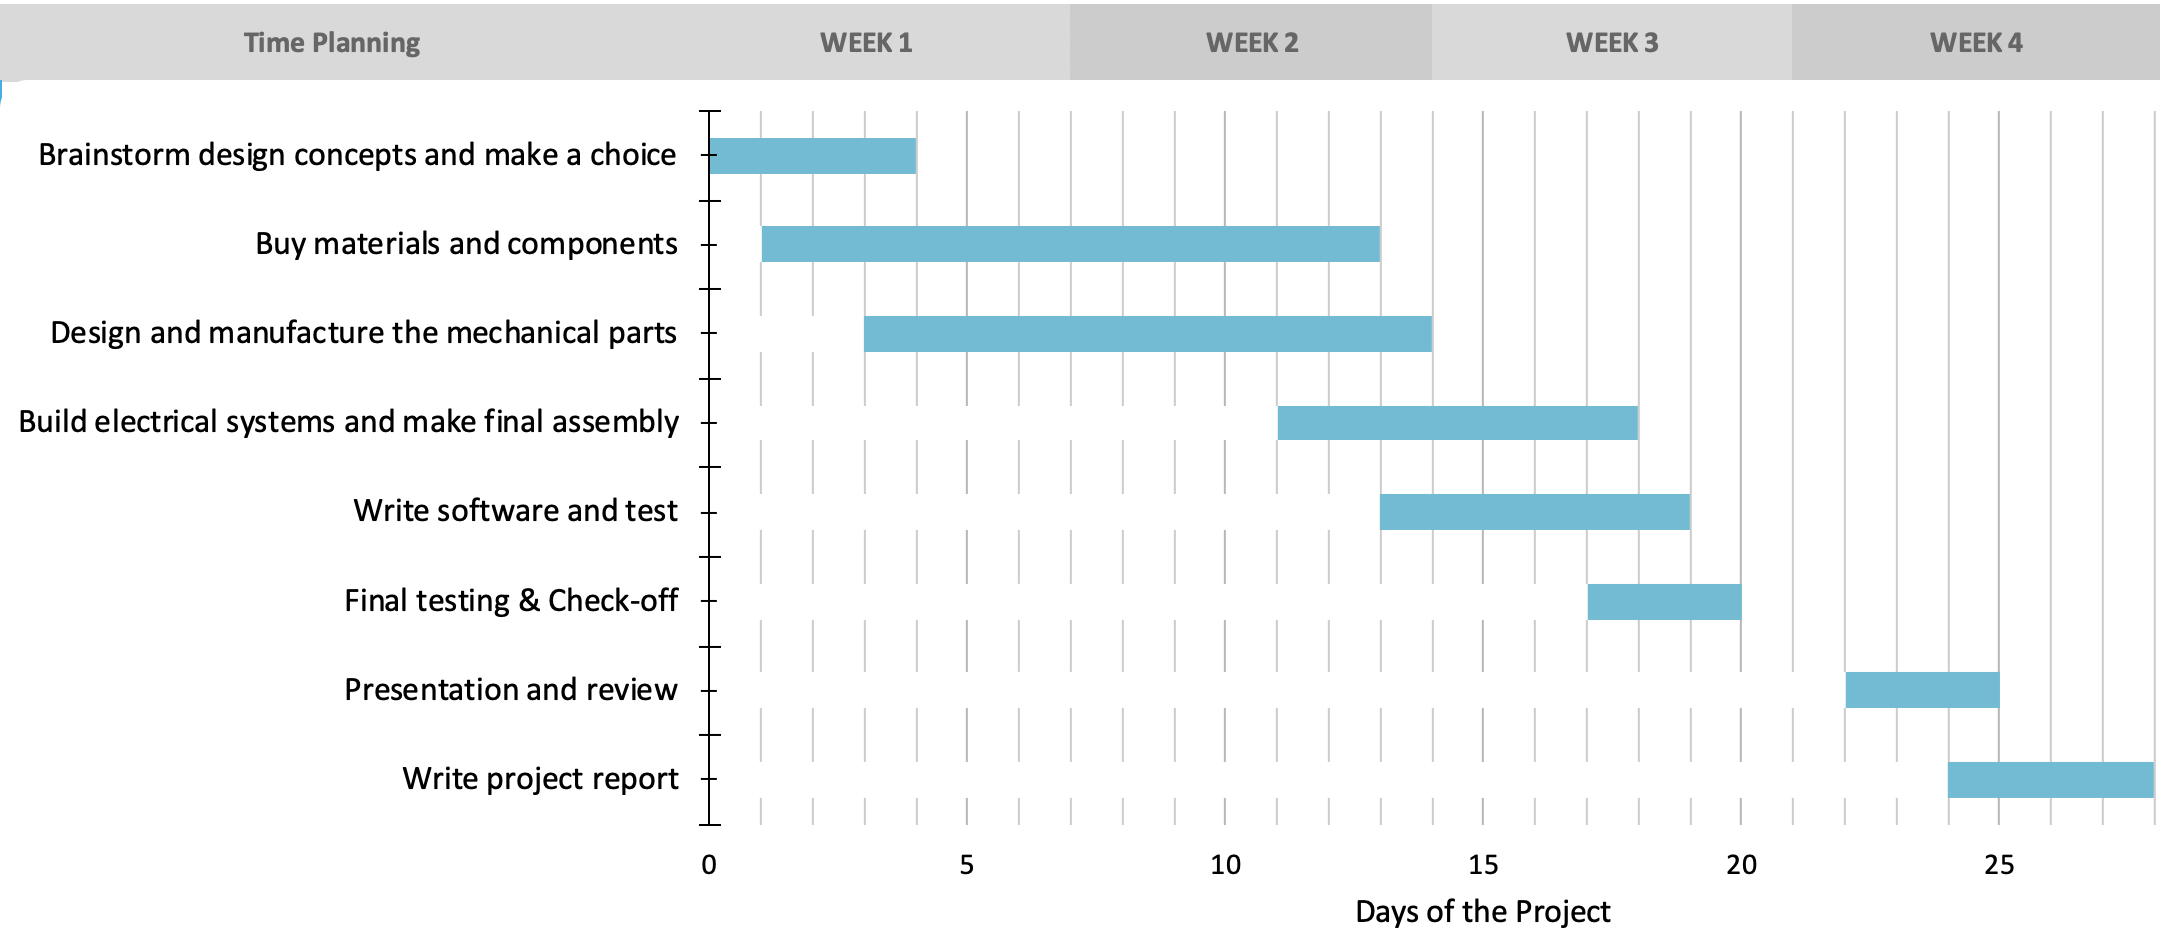
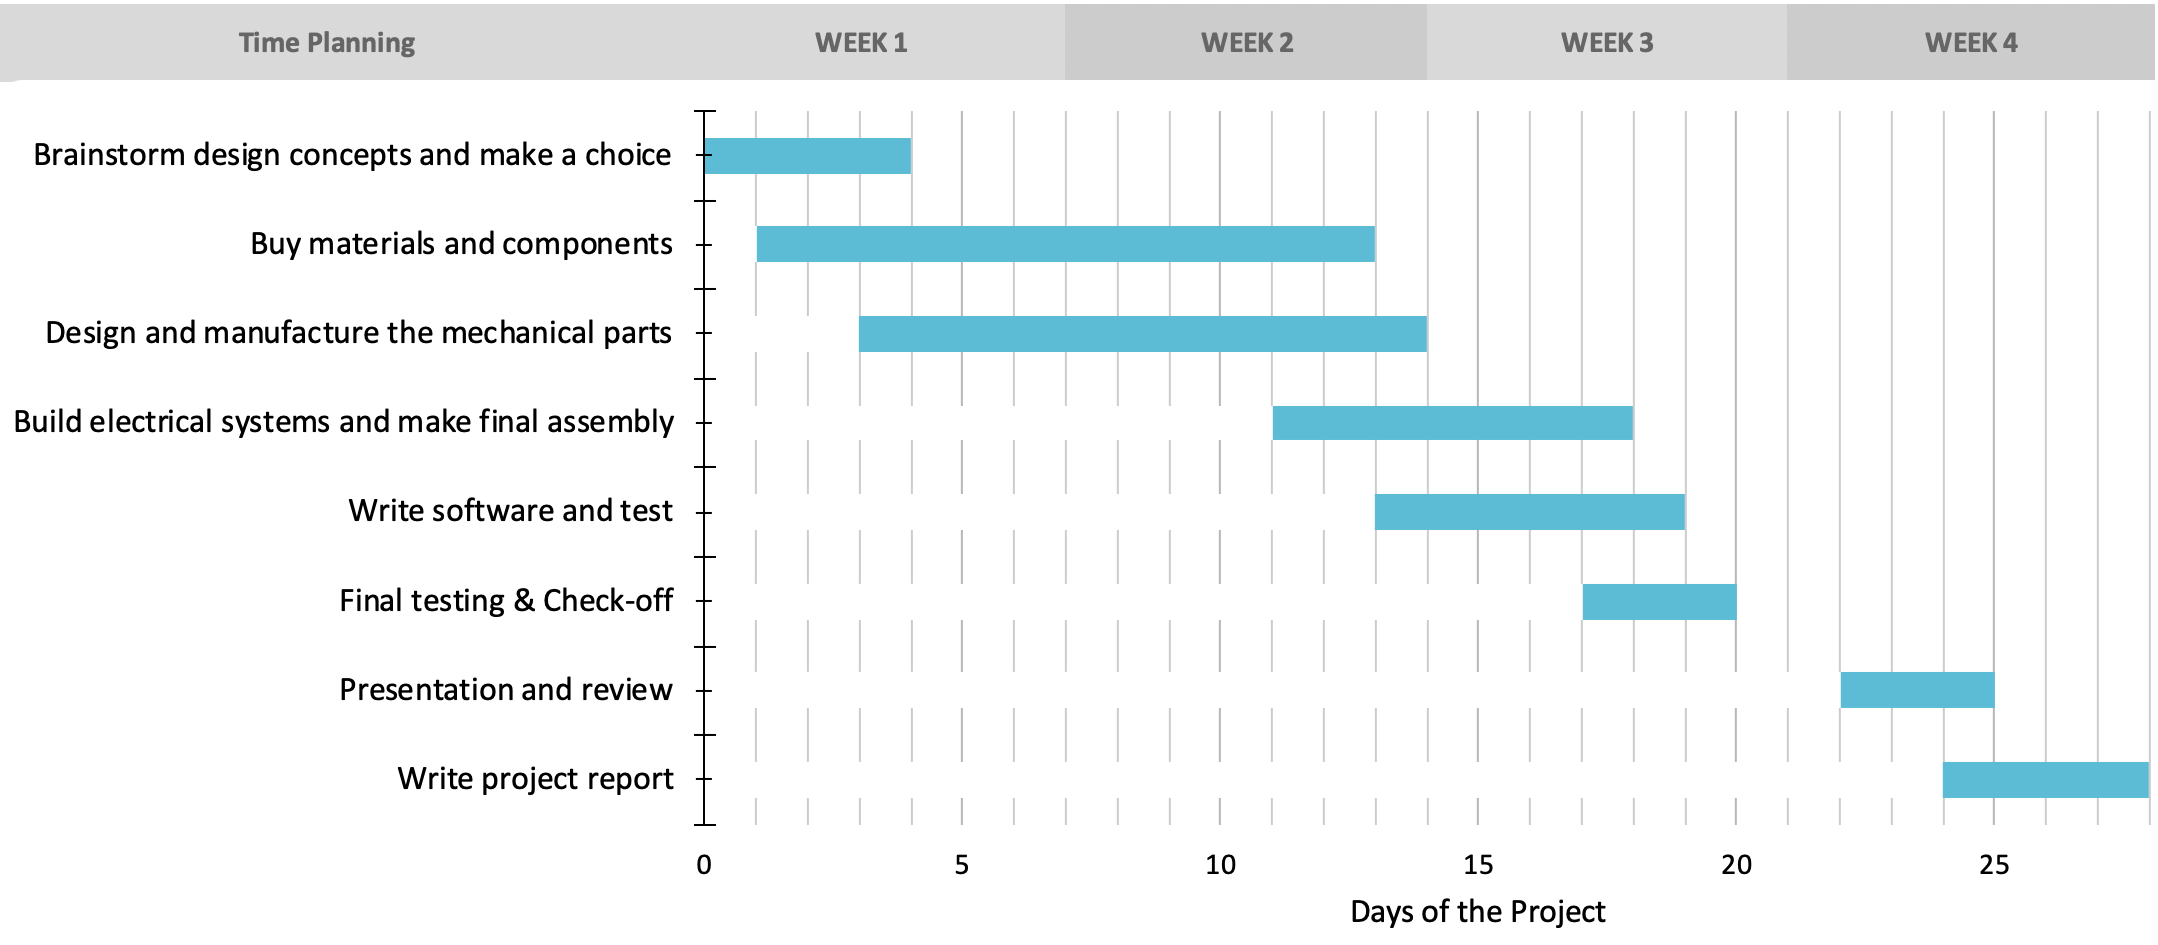
finished Timeline section

diff --git a/index.html b/index.html
@@ -464,7 +464,7 @@ We focused on simplicity and speed, resulting in our final product: the Team 9 r
         </div>
         <!-- End soft -->
 
-        <!-- bill -->
+        <!-- BILL -->
         <div id="bill">
             <div class="container content-lg">
                 <!-- <div class="row text-center margin-b-40"> -->
@@ -528,9 +528,9 @@ We focused on simplicity and speed, resulting in our final product: the Team 9 r
                 <!--// end row -->
             </div>
         </div>
-        <!-- End bill -->
+        <!-- End BILL -->
 
-        <!-- time -->
+        <!-- TIMELINE -->
         <div id="time">
             <div class="container content-lg">
                 <!-- <div class="row text-center margin-b-40"> -->
@@ -538,63 +538,18 @@ We focused on simplicity and speed, resulting in our final product: the Team 9 r
                     <div class=""col-md-10 col-md-offset-1"">
                         
                         <h2><font size="10">Timeline</font></h2>
-                        <p><font size="5" color="grey">Each subsystem was tested as a makeshift prototype and immediately tested after completion. When it was time to design the final mechanical components out of more durable materials, all of the mechanical systems had been tested at least in concept, speeding up our process. We also focused heavily on reducing the cost of our project and minimizing time wasted waiting for shipping by scavenging parts. We were lucky to find nearly all of the parts needed by scouring the ME210 spare parts bin, bringing in parts from personal projects and harassing our labmates. This enabled us to set a record breaking check-off time, 14 days before deadline, with work beginning immediately after class on February 20th and concluding in the evening of February 23rd.
-We focused on simplicity and speed, resulting in our final product: the Team 9 robot.</font></p>
+                        <p><font size="5" color="grey">We made a detailed project plan during our first review. In general, we did a good job of sticking to our schedule. We started from brainstorming design concepts and ordering necessary parts ahead of time, though not all the parts were used and some parts became available in the lab later. Mechanical design and manufacturing started earlier than electrical design to reduce the conflicts. We wrote the beta version software as soon as we had the chassis ready. We successfully checked off on time and had the robot ready for the final tournament.  </font></p>
                         
                     </div>
                 </div>
                 <!--// end row -->
-
                 <div class="row">
-                    <!-- Latest Products -->
-                    <div class="col-sm-4 sm-margin-b-50">
-                        <div class="margin-b-20">
-                            <img class="img-responsive wow fadeIn" src="img/970x647/01.jpg" alt="Latest Products Image" data-wow-duration=".3" data-wow-delay=".1s">
-                        </div>
-                        <h4><a href="#">Workspace</a> <span class="text-uppercase margin-l-20">Management</span></h4>
-                        <p>Lorem ipsum dolor sit amet consectetur adipiscing elit sed tempor incdidunt ut laboret dolor magna ut consequat siad esqudiat dolor</p>
-                        <a class="link" href="#">Read More</a>
-                    </div>
-                    <!-- End Latest Products -->
-
-                    <!-- Latest Products -->
-                    <div class="col-sm-4 sm-margin-b-50">
-                        <div class="margin-b-20">
-                            <img class="img-responsive wow fadeIn" src="img/970x647/02.jpg" alt="Latest Products Image" data-wow-duration=".3" data-wow-delay=".2s">
-                        </div>
-                        <h4><a href="#">Minimalism</a> <span class="text-uppercase margin-l-20">Developmeny</span></h4>
-                        <p>Lorem ipsum dolor sit amet consectetur adipiscing elit sed tempor incdidunt ut laboret dolor magna ut consequat siad esqudiat dolor</p>
-                        <a class="link" href="#">Read More</a>
-                    </div>
-                    <!-- End Latest Products -->
-
-                    <!-- Latest Products -->
-                    <div class="col-sm-4 sm-margin-b-50">
-                        <div class="margin-b-20">
-                            <img class="img-responsive wow fadeIn" src="img/970x647/03.jpg" alt="Latest Products Image" data-wow-duration=".3" data-wow-delay=".3s">
-                        </div>
-                        <h4><a href="#">Cleant Style</a> <span class="text-uppercase margin-l-20">Design</span></h4>
-                        <p>Lorem ipsum dolor sit amet consectetur adipiscing elit sed tempor incdidunt ut laboret dolor magna ut consequat siad esqudiat dolor</p>
-                        <a class="link" href="#">Read More</a>
-                    </div>
-                    <!-- End Latest Products -->
-                </div>
-                <!--// end row -->
-            </div>
-
-            <div class="container-full-width">
-                <div class="row row-space-2">
-                    <div class="col-sm-6 sm-margin-b-4">
-                        <img class="img-responsive" src="img/970x647/01.jpg" alt="Image">
-                    </div>
-                    <div class="col-sm-6">
-                        <img class="img-responsive" src="img/970x647/03.jpg" alt="Image">
-                    </div>
+                    <img class="img-responsive" src="img/timeline.png" alt="Image">
                 </div>
                 <!--// end row -->
             </div>
         </div>
-        <!-- End time -->
+        <!-- End TIMELINE -->
 
         <!-- conclusion -->
         <div id="conclusion">
